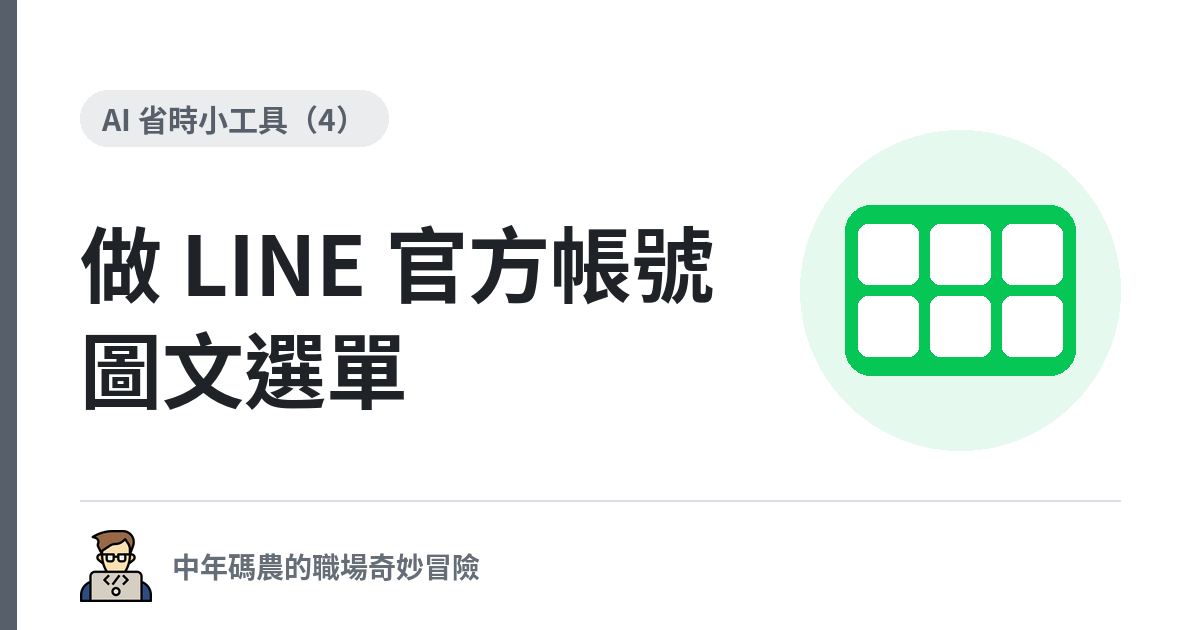
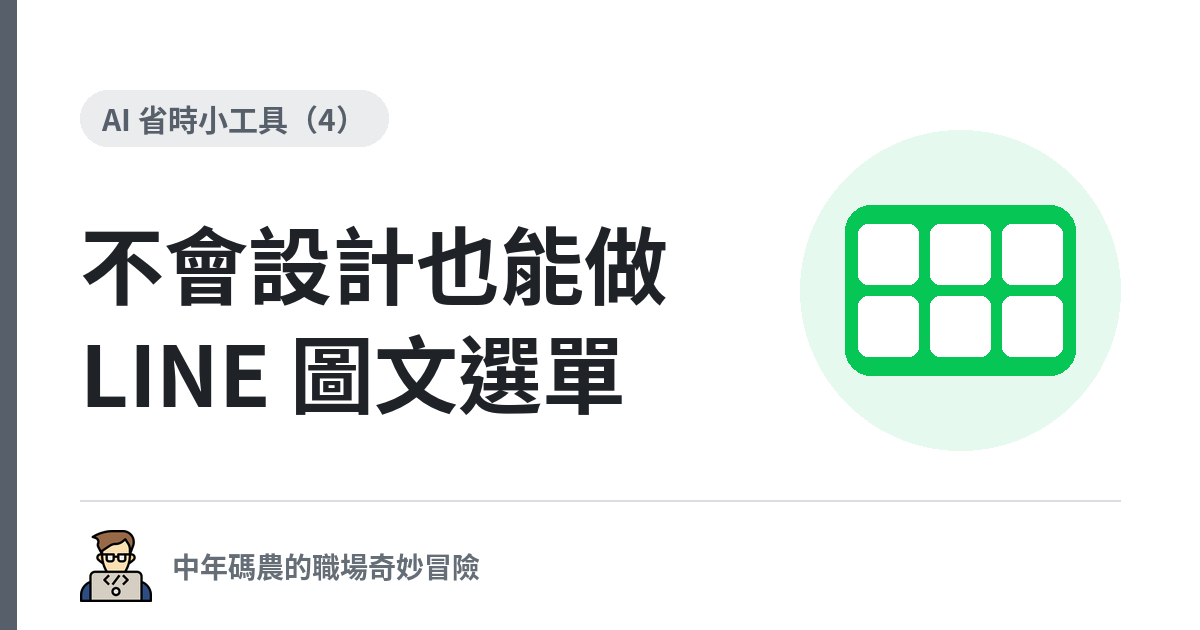
圖文選單教學：標題改為「不會設計也能做」並更新封面
Claude-Session: https://claude.ai/code/session_01WPuEZqbYBcEH32MzWyrvHz

Changed region(s): [[0.0617, 0.5127, 0.5242, 0.6635], [0.0617, 0.3619, 0.6167, 0.4825]]

diff --git a/CLAUDE.md b/CLAUDE.md
@@ -36,6 +36,6 @@
 - PR #7（第 2 篇草稿、系列命名統一、規劃文件與 CLAUDE.md）已於 2026-11-09 合併；之後分支 `claude/new-session-syho52` 新增的 commit（刪除素材草稿、第 3 篇構想、本檔進度）由 PR #9 合併進 master，待作者確認合併。
 - **下一篇構想（暫列第 3 篇，未動筆）**：無意中發現 SBE，整理出知識庫指引（A 篇）；QA 工作流（TARS）另開 B 篇。大綱草案與待補素材見規劃文件「第 3 篇（暫，構想中）」。第 2 篇小結的預告句與此篇的落差，作者決定先不處理。
 - **新系列「AI 省時小工具」**（給不懂技術的讀者，`content/posts/ai-tools/`）：第 1 篇 LINE 貼圖上架教學已發布（2026-11-16，`draft = false`，PR #10 已合併）。截圖待補，Creators Market 介面名稱尚未核對。兩篇封面（`feature.png`）都由 `scripts/make_cover.py` 產生（白底、灰色系列標籤、思源黑體 Bold、圖示用工具品牌色）。第 2 篇 GitHub 註冊與開啟 2FA 教學（`content/posts/ai-tools/github-signup-2fa/`）已發布（2026-11-23，`draft = false`，PR #11 已合併）。粉絲團推廣貼文（中立版）草稿在 `/mnt/project-files/drafts/fb-posts/`，貼文編號 002。第 3 篇「用 ChatGPT 串接 GitHub 做個人網站」（`content/posts/ai-tools/chatgpt-github-pages-website/`）`draft = false` 供 preview 站檢視，流程依作者提供的教學（預設 ChatGPT 可直接推送 commit），Repository 用 `帳號.github.io` 自動上線，文中不提 GitHub Pages 名詞，截圖齊全（作者實測 ChatGPT 可直接推送到 main）；封面新增 `web` 圖示（GitHub 藍 0969da）。
-- 「AI 省時小工具」第 4 篇「用 ChatGPT 做 LINE 官方帳號的圖文選單」（`content/posts/ai-tools/line-oa-rich-menu/`）草稿中（`draft = true`）。原想開「LINE 官方帳號」獨立系列，討論後先放進本系列，寫兩三篇反應好再獨立；下一篇預計 Make 做 LINE Bot，沿用同一個示範帳號。新規則：教學文先錄操作影片轉 GIF 放文章開頭當 demo（先秀成品），錄影腳本在 `/mnt/project-files/line-richmenu/recording-script.md`；封面新增 `menu` 圖示（LINE 綠 06c755）。
+- 「AI 省時小工具」第 4 篇「不會設計也能做：用 AI 畫出 LINE 官方帳號的圖文選單」（`content/posts/ai-tools/line-oa-rich-menu/`）草稿中（`draft = true`）。原想開「LINE 官方帳號」獨立系列，討論後先放進本系列，寫兩三篇反應好再獨立；下一篇預計 Make 做 LINE Bot，沿用同一個示範帳號。新規則：教學文先錄操作影片轉 GIF 放文章開頭當 demo（先秀成品），錄影腳本在 `/mnt/project-files/line-richmenu/recording-script.md`；封面新增 `menu` 圖示（LINE 綠 06c755）。
 - **網站 icon 統一用「一個人使用電腦」那張**（`assets/img/avatar.png`）：favicon、apple-touch-icon、作者頭像、og:image、封面左下角頭像（`scripts/cover-avatar.png`）都用它，不用戴耳機的卡通頭像（PR #15）。
 - side project 下一個里程碑：手刻 RAG 開工（Ollama + Chroma 跑起來）。

diff --git a/content/posts/ai-tools/line-oa-rich-menu/index.md b/content/posts/ai-tools/line-oa-rich-menu/index.md
@@ -1,8 +1,8 @@
 +++
 date = '2026-11-26'
 draft = true
-title = 'AI 省時小工具（4） - 用 ChatGPT 做 LINE 官方帳號的圖文選單'
-description = '請 ChatGPT 畫好選單圖片並裁成 LINE 規定的尺寸，再到官方帳號後台設定每個按鈕，客人一打開聊天室就看得到。'
+title = 'AI 省時小工具（4） - 不會設計也能做：用 AI 畫出 LINE 官方帳號的圖文選單'
+description = '請 AI 畫好選單圖片並裁成 LINE 規定的尺寸，再到官方帳號後台設定每個按鈕，客人一打開聊天室就看得到。'
 tags = ['LINE 官方帳號', 'ChatGPT', '圖文選單']
 topics = ['AI 省時小工具']
 +++
